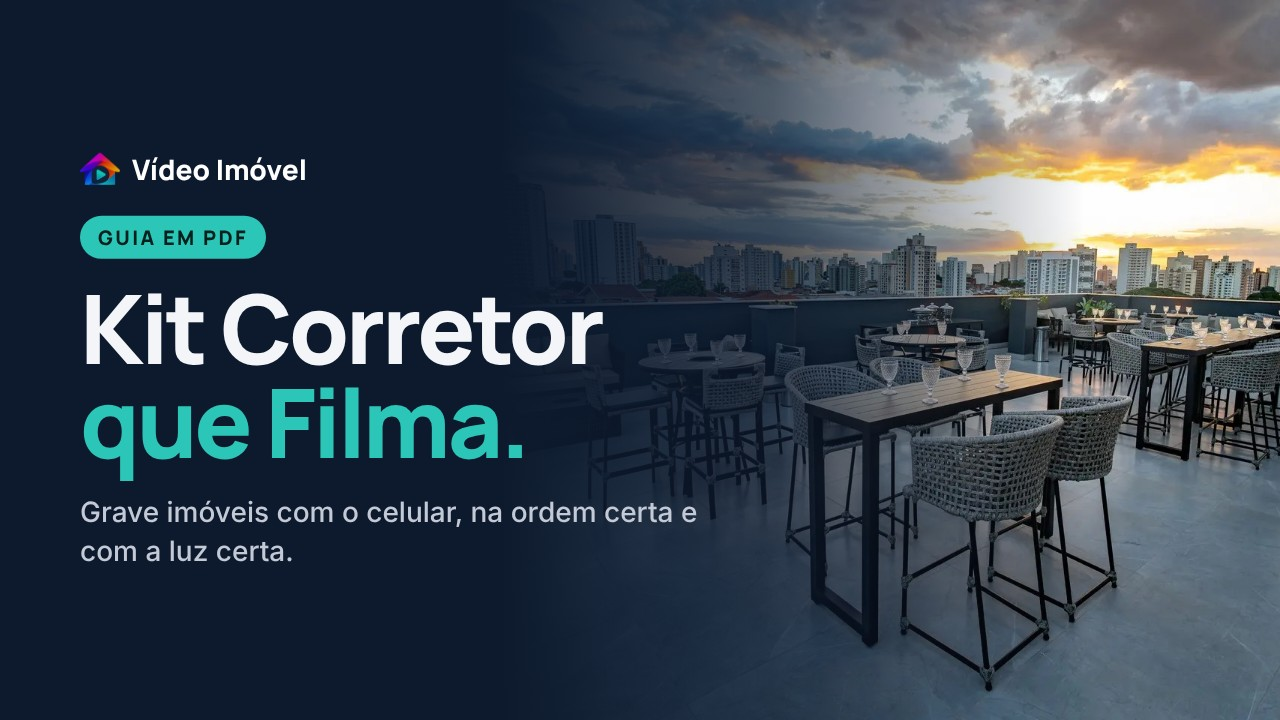
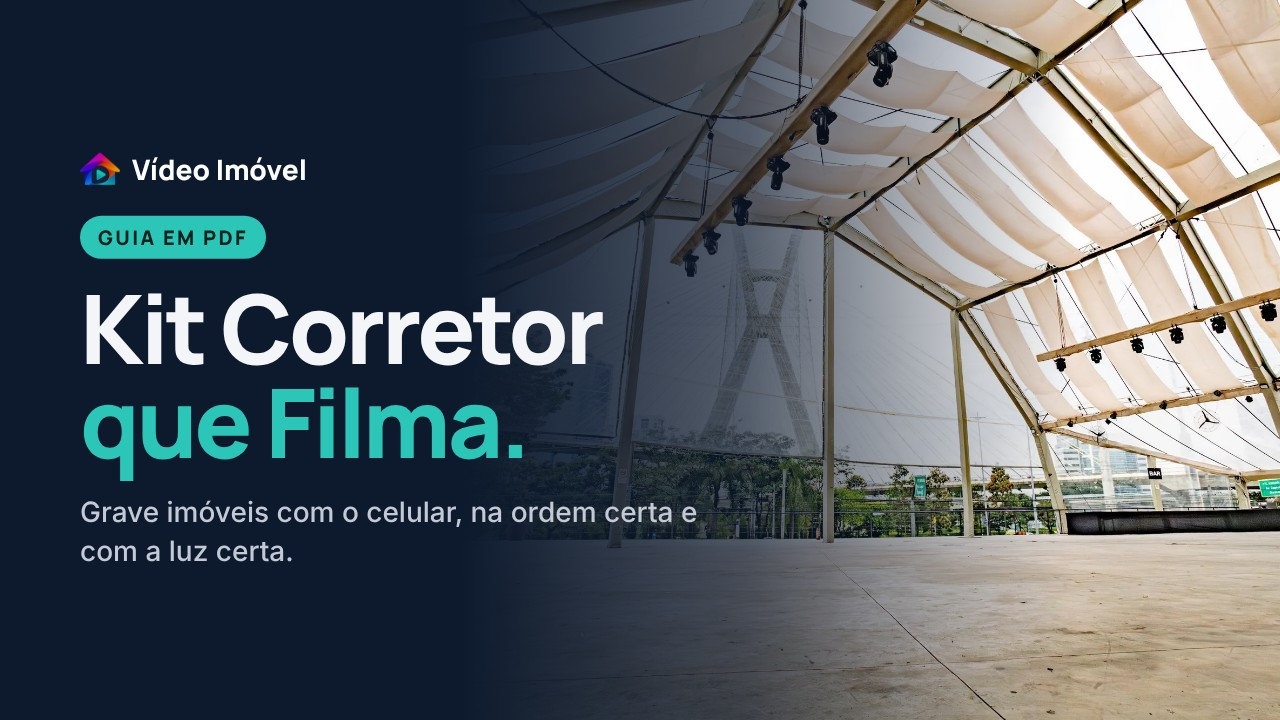
Kit: capas de vitrine com hall e tenda
Claude-Session: https://claude.ai/code/session_01BSDKUva1iMyEordVMV2vmb

diff --git a/kit/vit2.html b/kit/vit2.html
@@ -1,0 +1,24 @@
+<!doctype html><html><head><meta charset="utf-8">
+<link rel="stylesheet" href="https://fonts.googleapis.com/css2?family=Manrope:wght@700;800&family=Inter:wght@500;600&display=swap">
+<style>body{margin:0}
+.v{width:720px;height:1040px;position:relative;overflow:hidden;background:#0d1a2e;font-family:Inter}
+.v .img{position:absolute;inset:0 0 auto 0;height:600px;background:url(bg_hall.jpg) 62% 50%/cover}
+.v .img::after{content:"";position:absolute;inset:0;background:linear-gradient(180deg,rgba(13,26,46,.05) 35%,#0d1a2e 100%)}
+.brand{position:absolute;top:40px;left:48px;display:flex;align-items:center;gap:12px;color:#fff;font:800 28px Manrope;z-index:2;text-shadow:0 2px 10px rgba(0,0,0,.4)}
+.brand img{width:40px}
+.v .t{position:absolute;left:48px;right:48px;top:520px;color:#f4f5f8}
+.k{display:inline-block;background:#2cc6b8;color:#04201d;font:800 20px Manrope;letter-spacing:.12em;text-transform:uppercase;padding:8px 18px;border-radius:99px;margin-bottom:22px}
+h1{font:800 88px/.98 Manrope;letter-spacing:-.035em;margin:0}
+h1 span{color:#2cc6b8}
+p{font:500 28px/1.38 Inter;color:#c3cad6;margin:24px 0 0}
+.h{width:1280px;height:720px;position:relative;overflow:hidden;background:#0d1a2e;font-family:Inter;display:none}
+.h .img{position:absolute;top:0;right:0;width:820px;height:720px;background:url(bg_tenda.jpg) 60% 45%/cover}
+.h .img::after{content:"";position:absolute;inset:0;background:linear-gradient(90deg,#0d1a2e 0%,rgba(13,26,46,.7) 35%,rgba(13,26,46,0) 75%)}
+.h .t{position:absolute;left:80px;top:50%;transform:translateY(-50%);color:#f4f5f8;width:640px;z-index:2}
+.h .brand{position:static;margin-bottom:28px;text-shadow:none}
+.h h1{font-size:96px}
+</style></head><body>
+<div class="v" id="v"><div class="img"></div><div class="brand"><img src="logo-mark.png">Vídeo Imóvel</div>
+<div class="t"><div class="k">Guia em PDF</div><h1>Kit Corretor<br><span>que Filma.</span></h1><p>Grave imóveis com o celular, na ordem certa e com a luz certa.</p></div></div>
+<div class="h" id="h"><div class="img"></div><div class="t"><div class="brand"><img src="logo-mark.png">Vídeo Imóvel</div><div class="k">Guia em PDF</div><h1>Kit Corretor<br><span>que Filma.</span></h1><p>Grave imóveis com o celular, na ordem certa e com a luz certa.</p></div></div>
+</body></html>
